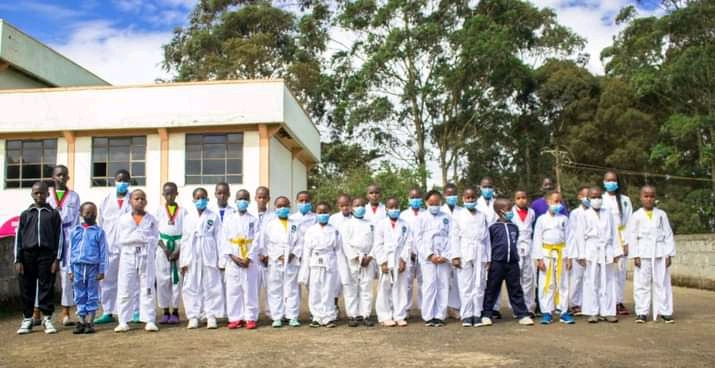
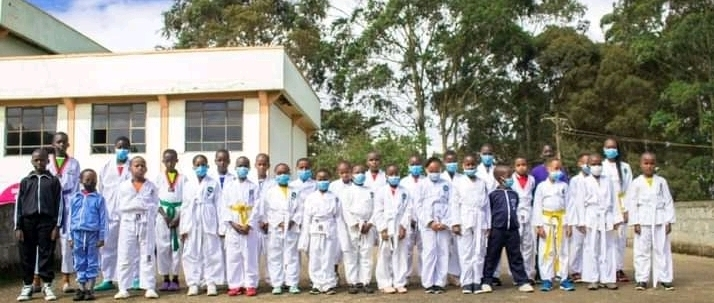
tinting image

diff --git a/index.html b/index.html
@@ -45,7 +45,6 @@
     </div>
     
     <div class="slideshow-container" style="width: 100%;">
-    <h1 class="box">Sparkling Taekwon-do</h1>
       <!-- Full-width images with number and caption text -->
       <div class="mySlides fade">
         
@@ -56,8 +55,8 @@
          This Website can help you child prepare for gradings, learn new skills,<br> disipline, self defence, self reliance, and independence in the everyday world.</div>
       </div>
       <div class="mySlides fade">
-        <img src="yomamafac.jpg" class="joes" style="width: 100%; height: 10%;">
-        <div class="text2">Sparkling Taekwondo is an ITF Taekwon-do club founded by John Mwangi (1st dan) in 2016,
+        <img src="jomumy (1).jpg" class="joes" style="width: 100%; height: 10%;">
+        <div class="text1">Sparkling Taekwondo is an ITF Taekwon-do club founded by John Mwangi (1st dan) in 2016,
         <br>and it was founded so children all over the country
        may have a chance to learn this martial art.<br> 
        This Website can help you child prepare for gradings, learn new skills,<br> disipline, self defence, self reliance, and independence in the everyday world.</div>
@@ -113,9 +112,9 @@ function showSlides(n) {
       </script>
     <h2 class="eat">Sparkling Taekwon-do</h2>
     <h6>Taekwon-do classes are available for everyone the age of 4+, its never to late to learn. We also go for competions and events in countries such as,
-       Uganda, Rwanda, <br> and we plan to visit the USA in the near future. So if your learning from scratch
+       Uganda, Rwanda,<br> and we plan to expand to the USA in the near future. So if your learning from scratch
        or are looking to level up sparkling taekwondo is the place for you.</h6>
-       <img src="logo.png" style="padding-left: 30%;">
+       <img src="logo.png" style="padding-left: 27%;">
 
 
   </body>

diff --git a/styles.css b/styles.css
@@ -110,14 +110,26 @@ input{
   }
   .eat{
     text-align: center;
-    font-weight: 600;
+    font-weight: 650;
     }
   h6{
     text-align: center;
     color: #615d5d;
     
   }
-  .joes{
-    background: linear-gradient(rgba(0, 0, 0, 0.5));
-    height: 10%;
+  .size{
+    height: 45%;
+    width: 55%;
   }
+  .joes :hover {
+    opacity: 1;
+    transition: opacity 1s, background 1s;
+    background: #377aff;
+  }
+    .joes{
+      height: 250px;
+    width: 200px;
+    opacity: 0.65;
+    transition: opacity 1s, background 1s;
+  }
+  

diff --git a/galley.html b/galley.html
@@ -32,3 +32,10 @@
           <li><a href="contacts.html">Contacts</a></li>
           <li><a href="calender.html">Calendar</a></li>
   </ul>
+  <img src="jomumy (1).jpg" class="size">
+  <img src="jomama.jpg" class="size">
+  <img src="mumyofyo.jpg" class="size">
+  <img src="swey.jpg" class="size">
+  <img src="tt.jpg" class="size">
+  <img src="yomamafac.jpg" class="size">
+  <img src="yomotor.jpg" class="size">
